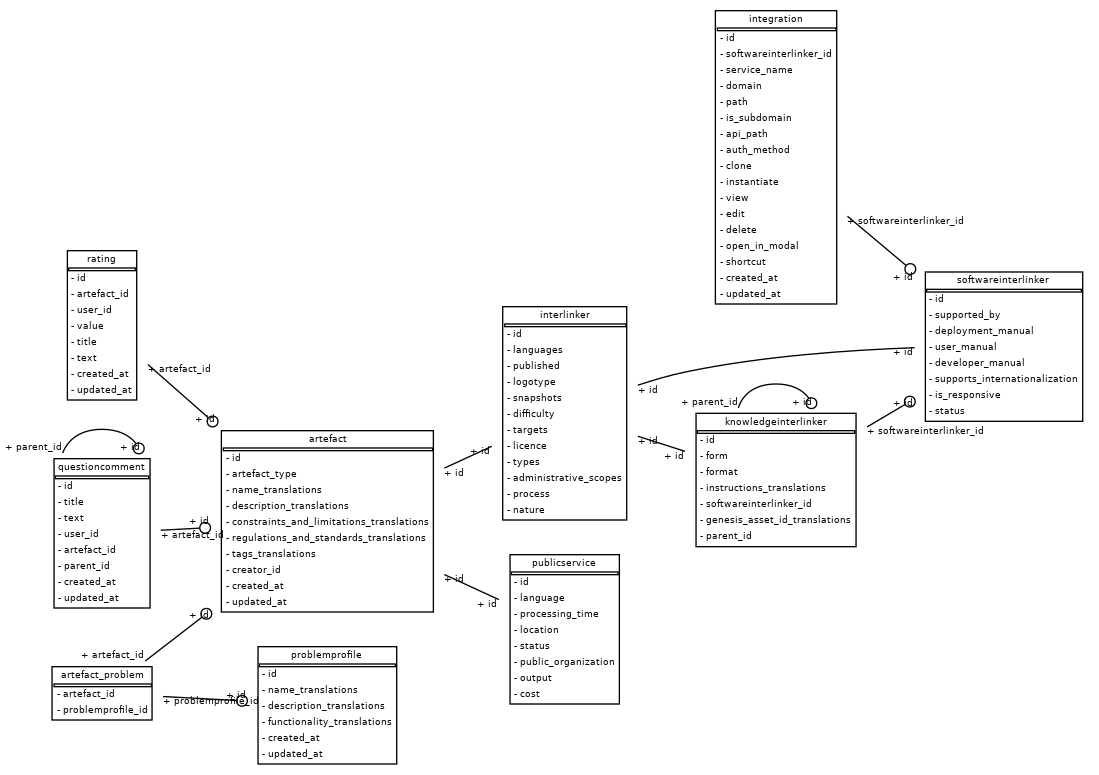
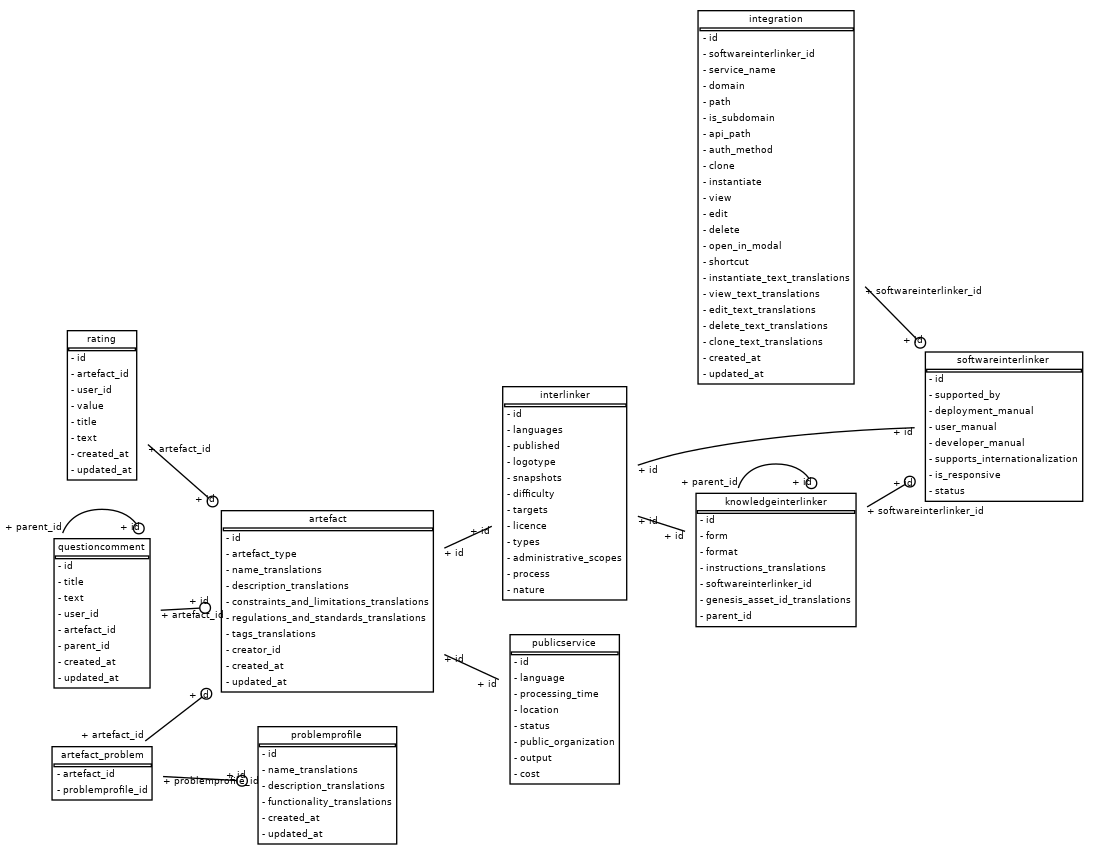
Capabilities translations

diff --git a/catalogue/app/integrations/models.py b/catalogue/app/integrations/models.py
@@ -15,6 +15,8 @@ from sqlalchemy import (
 )
 from sqlalchemy.dialects.postgresql import UUID
 from sqlalchemy.orm import relationship
+from sqlalchemy.dialects.postgresql import HSTORE
+from app.translations import translation_hybrid
 
 
 class Integration(BaseModel):
@@ -38,3 +40,16 @@ class Integration(BaseModel):
     delete = Column(Boolean, default=True)
     open_in_modal = Column(Boolean, default=False)
     shortcut = Column(Boolean, default=False)
+    
+    # capabilities translations
+    instantiate_text_translations = Column(HSTORE)
+    view_text_translations = Column(HSTORE)
+    edit_text_translations = Column(HSTORE)
+    delete_text_translations = Column(HSTORE)
+    clone_text_translations = Column(HSTORE)
+
+    instantiate_text = translation_hybrid(instantiate_text_translations)
+    view_text = translation_hybrid(view_text_translations)
+    clone_text = translation_hybrid(clone_text_translations)
+    edit_text = translation_hybrid(edit_text_translations)
+    delete_text = translation_hybrid(delete_text_translations)

diff --git a/catalogue/app/initial_data.py b/catalogue/app/initial_data.py
@@ -110,14 +110,9 @@ def create_softwareinterlinker(metadata_path):
     integrationData["softwareinterlinker_id"] = interlinker.id
 
     # capabilities to root
-    integrationData["instantiate"] = data["integration"]["capabilities"]["instantiate"]
-    integrationData["clone"] = data["integration"]["capabilities"]["clone"]
-    integrationData["view"] = data["integration"]["capabilities"]["view"]
-    integrationData["edit"] = data["integration"]["capabilities"]["edit"]
-    integrationData["delete"] = data["integration"]["capabilities"]["delete"]
-    integrationData["open_in_modal"] = data["integration"]["capabilities"]["open_in_modal"]
-    integrationData["shortcut"] = data["integration"]["capabilities"]["shortcut"]
-
+    integrationData = {**integrationData, **data["integration"]["capabilities"]}
+    integrationData = {**integrationData, **data["integration"]["capabilities_translations"]}
+    
     crud.integration.create(
         db=db,
         obj_in=schemas.IntegrationCreate(**integrationData)

diff --git a/catalogue/app/integrations/schemas.py b/catalogue/app/integrations/schemas.py
@@ -32,7 +32,12 @@ class IntegrationBase(BaseModel):
 
 
 class IntegrationCreate(IntegrationBase):
-    pass
+    # capabilities translations
+    instantiate_text_translations: Optional[dict]
+    view_text_translations: Optional[dict]
+    edit_text_translations: Optional[dict]
+    delete_text_translations: Optional[dict]
+    clone_text_translations: Optional[dict]
 
 
 class IntegrationPatch(IntegrationCreate, metaclass=AllOptional):
@@ -43,6 +48,12 @@ class Integration(IntegrationBase):
     id: uuid.UUID
     created_at: datetime
     updated_at: Optional[datetime]
+
+    instantiate_text: Optional[str]
+    view_text: Optional[str]
+    clone_text: Optional[str]
+    edit_text: Optional[str]
+    delete_text: Optional[str]
 
     class Config:
         orm_mode = True

diff --git a/catalogue/app/interlinkers/models.py b/catalogue/app/interlinkers/models.py
@@ -21,7 +21,7 @@ from sqlalchemy_utils import aggregated
 
 from app.artefacts.models import Artefact
 from app.config import settings
-from app.general.utils.DatabaseLocalization import translation_hybrid
+from app.translations import translation_hybrid
 from app.integrations.models import Integration
 
 
